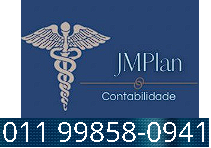
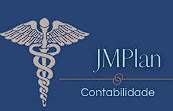
juliana final

diff --git a/juliana.html b/juliana.html
@@ -17,10 +17,10 @@
       <a href="contato.html"><i class="fas fa-address-book"></i><span>Contato</span></a>
     </nav>
 
-    <img src="JULIANA.png">
+    <img class="logo" src="JULIANA.png">
 
     <section class="contato">
-      <h1 class="heading"><span>C</span>ontat<span>o</span></h1>
+      <h1 class="heading">Pagina em Construção</h1>
 
       <div class="row">
         <div class="info-container">
@@ -30,7 +30,7 @@
               <i class="fas fa-envelope"></i>
               <div class="info">
                 <h3>Email :</h3>
-                <a href="mailto:dmachfour@gmail.com">dmachfour@gmail.com</a>
+                <a href="mailto:contato@jmplancontabilidade.com.br">contato@jmplancontabilidade.com.br</a>
               </div>
             </div>
 
@@ -49,31 +49,8 @@
             <a href="https://www.linkedin.com/company/jmplan-consultoria-cont%C3%A1bil-e-financeira/" class="fab fa-linkedin" target="_blank"></a>
             <a href="https://api.whatsapp.com/send?phone=5511998580941&text=Ol%C3%A1%20Daniel%2C%20peguei%20seu%20contato%20no%20site." class="fab fa-whatsapp" target="_blank"></a>
           </div>
-
         </div>
       </div>
     </section>
-
-
-
-
-
-    @jmplancontabilidade.com.br
-
-
-
-
-
-
-
-
-
-
-
-
-
-
-    <!-- <h1>Pagína em Construção</h1>
-    <img src="JULIANA.png"> -->
   </body>
 </html>

diff --git a/juliana.css b/juliana.css
@@ -21,7 +21,7 @@ html {
   overflow-x: hidden;
 }
 body {
-  background-color: var(--preto);
+  background-color:rgb(55, 55, 168);
   padding-bottom: 6rem;
 }
 section {
@@ -30,7 +30,7 @@ section {
 .heading {
   text-align: center;
   font-size: 3rem;
-  color: var(--verde);
+  color: var(--preto);
   margin-bottom: 3rem;
 }
 .heading span {
@@ -91,9 +91,15 @@ section {
   color: var(--branco);
 }
 /* ********************************** Contato ********************************* */
-.contato .row {
+
+.logo{
   display: flex;
   align-items: center;
+}
+
+.contato .row {
+  display: flex;
+  align-items:center;
   flex-wrap: wrap;
   gap: 2rem;
 }
@@ -117,6 +123,7 @@ section {
   display: flex;
   gap: 2rem;
   padding: 1rem 0;
+
 }
 .contato .row .info-container .box-container .box i {
   font-size: 30px;
@@ -133,7 +140,7 @@ section {
   line-height: 4.5rem;
   border-radius: 50%;
   background: var(--cinza);
-  color: var(--verde);
+  color: var(--branco);
   text-align: center;
   margin-right: .3rem;
 }
@@ -150,7 +157,7 @@ section {
   justify-content: space-between;
 }
 .contato .row form .inputBox input {
-  width: 49%;
+  width: 60%;
 }
 .contato .row form .inputBox input, .contact .row form textarea {
   border-radius: 10px;
